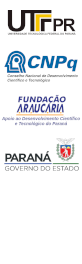
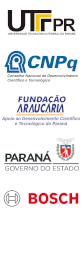
updated sponsors and videos

Changed region(s): [[0.3415, 0.7273, 0.9756, 0.7879], [0.0488, 0.697, 0.2439, 0.7879]]

diff --git a/src/components/modal-contents/sponsor.js b/src/components/modal-contents/sponsor.js
@@ -2,6 +2,7 @@ import utfpr from "./sponsor-logos/utfpr.svg";
 import parana from "./sponsor-logos/parana.svg";
 import fundacaoAraucaria from "./sponsor-logos/fundacao-araucaria.svg";
 import cnpq from "./sponsor-logos/cnpq.svg";
+import bosch from "./sponsor-logos/bosch.svg";
 
 import "./sponsor.css";
 
@@ -33,6 +34,8 @@ const Sponsor = () => (
       logo={parana}
       url="https://www.parana.pr.gov.br/"
     />
+
+    <Card title="Bosch" logo={bosch} url="https://www.bosch.com.br/" />
   </div>
 );
 

diff --git a/src/components/modal-contents/stand.js b/src/components/modal-contents/stand.js
@@ -1,9 +1,9 @@
 const Stand = () => (
   <div>
-    <h1>Stand de Projetos</h1>
+    <h1>Projetos</h1>
 
     <video className="video" controls>
-      <source src="./videos/geral.mp4" type="video/mp4" />
+      <source src="./videos/Projetos-compressed.mp4" type="video/mp4" />
     </video>
   </div>
 );

diff --git a/README.md b/README.md
@@ -83,7 +83,7 @@ $ convert -append \*.png out.png
 
 Pendências:
 
-- Videos
+OK - Videos
 	OK - BlocoA 
 	OK - BlocoB
 	OK - BlocoC
@@ -92,13 +92,13 @@ Pendências:
 	OK - BlocoF
 	OK - BlocoH
 	OK - BlocoR
-	- Projeos
+	OK - Projeos
 
 
 OK  - link na logo grande (em uma modal com rolagem);
 - Apoiadores: 
-    OK- UTFPR, CNPQ, Fundacao Auraucaria, Governo do Parana, 
-    - Bosch, Vale do Genoma
+    OK- UTFPR, CNPQ, Fundacao Auraucaria, Governo do Parana, Bosch, 
+    - Vale do Genoma
 
 OK  - remover "Informações Gerais" (Main menu)
 OK  - Criar um novo H2 "Instruções"
